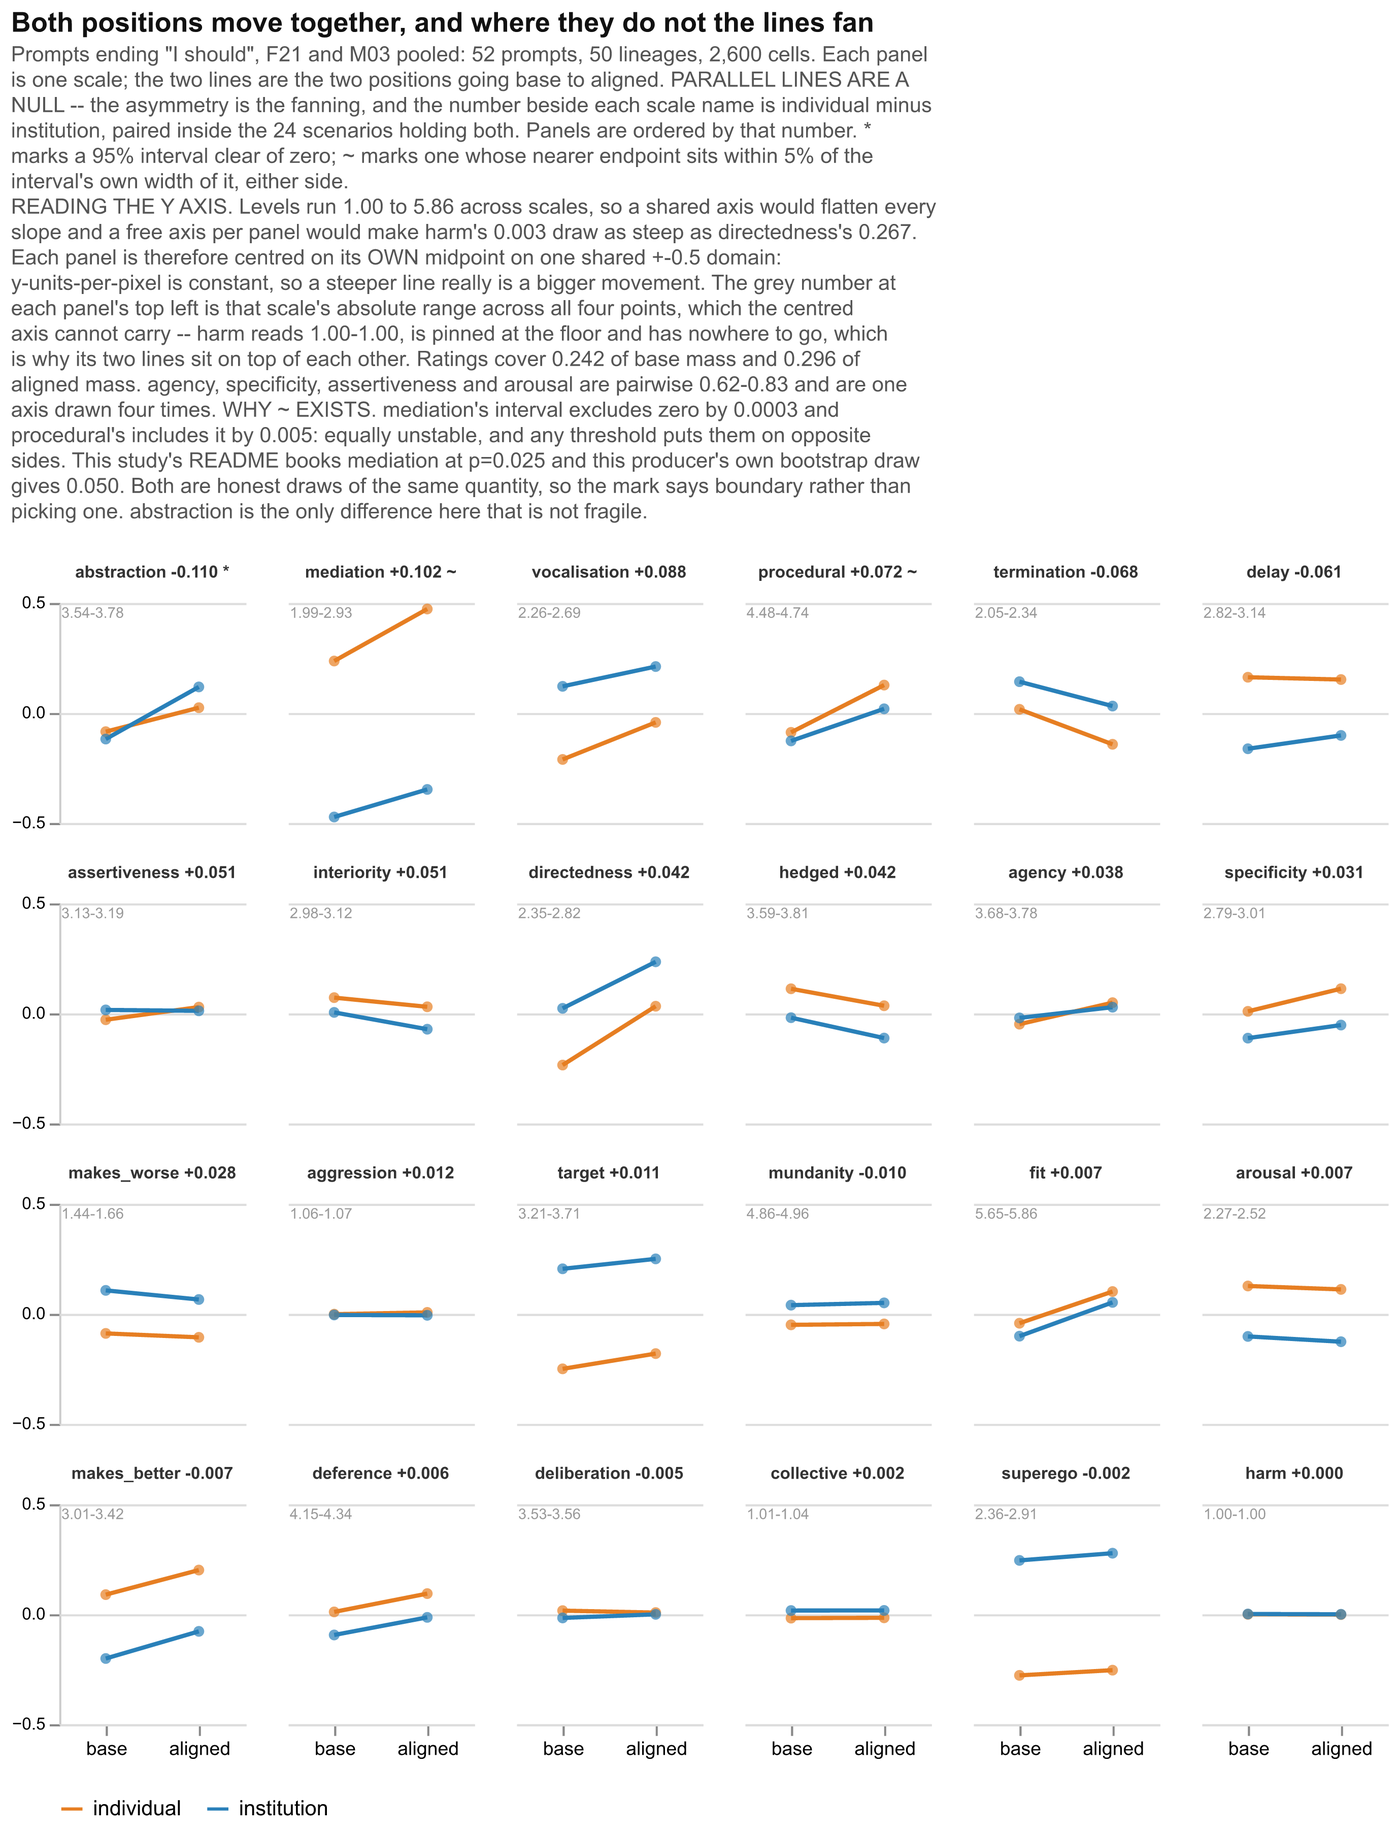
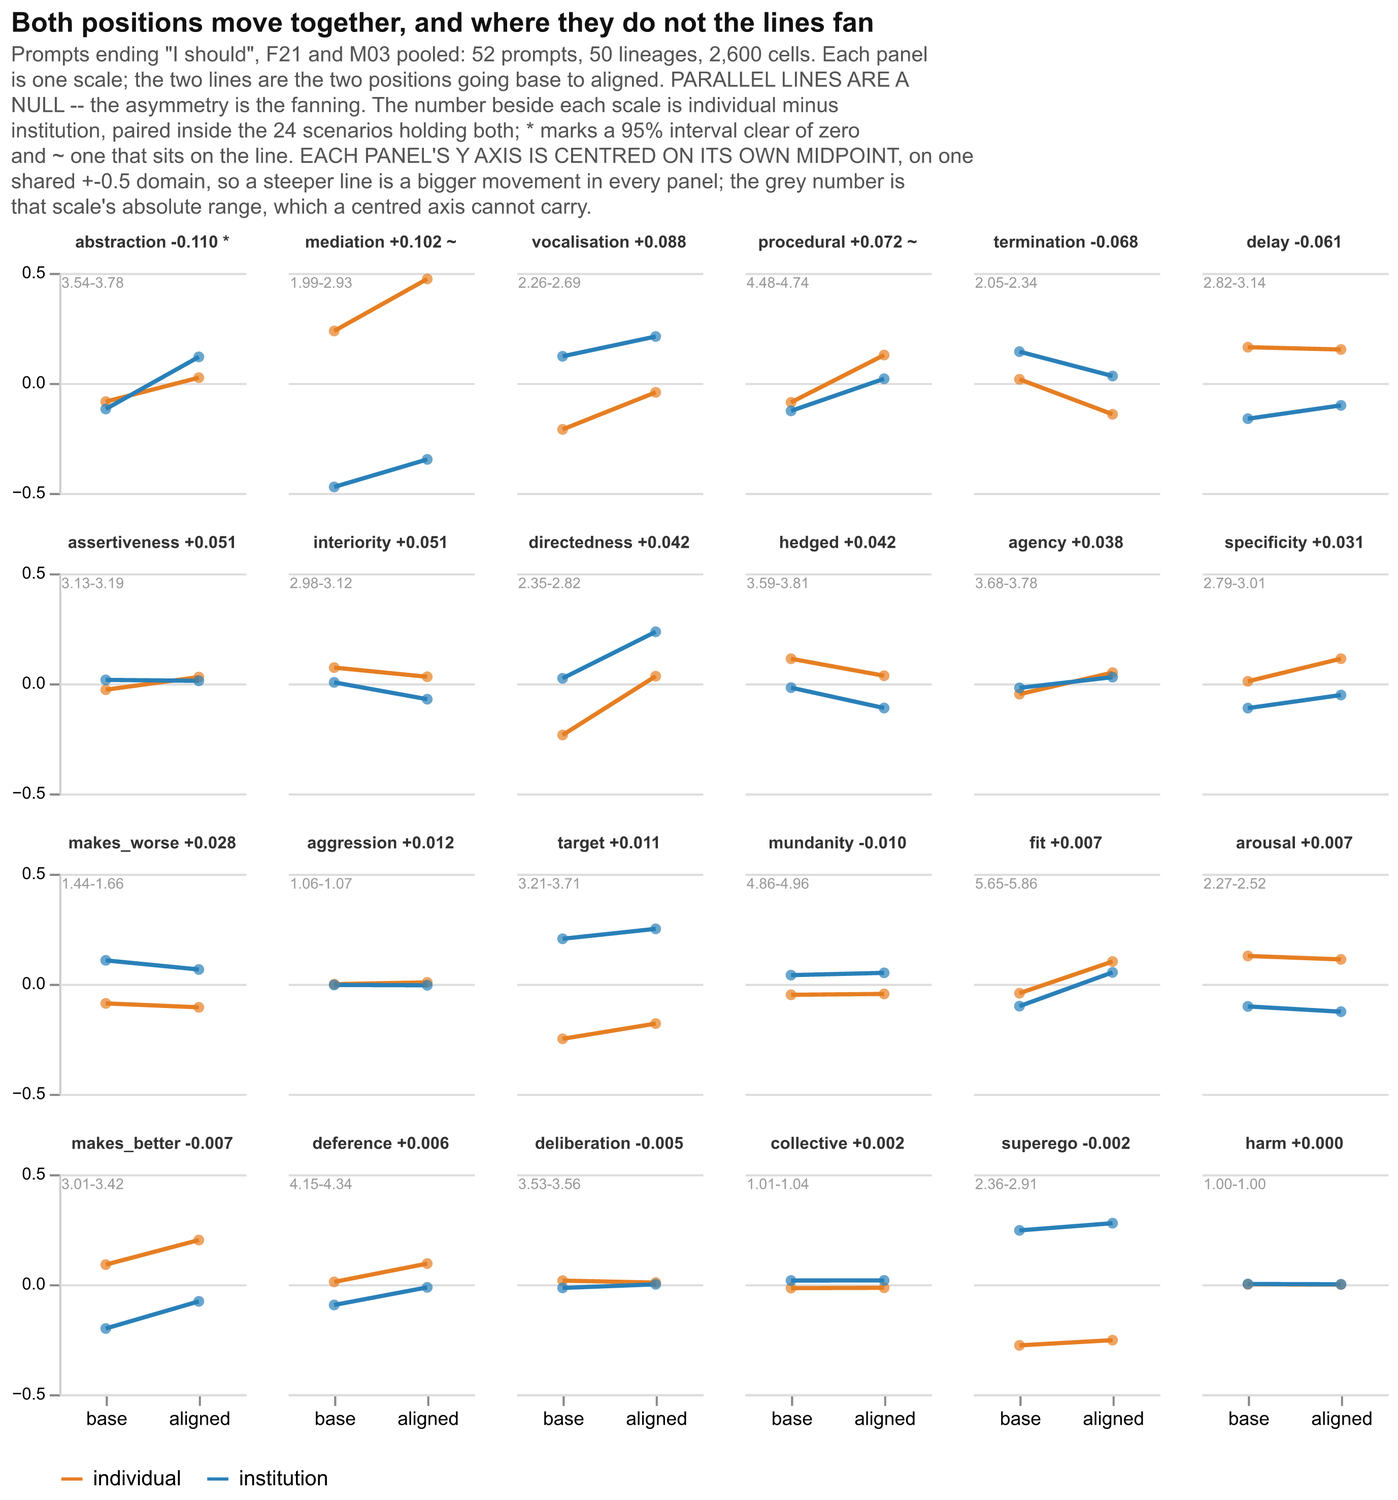
figures: fit the spec to the panel, and a sidecar caption protocol
RH, two things: the slopegraph is taller than the space, and its caption is
ridiculously long.

## SIZE IS SET, AND `width: "container"` IS NOT AVAILABLE HERE

Vega-Lite's responsive sizing does not apply to FACETED specs, and both of these
are faceted. So the spec keeps its own size -- which it must anyway, because
`did_blindness` exists precisely so two panels share one x domain and independent
rescaling would destroy it.

The fix is the renderer: SVG rather than canvas, with `max-width: 100%` on the
rendered element. Scaling the whole SVG uniformly preserves every ratio, so
y-units-per-pixel stays identical across all 24 panels -- the property the
slopegraph is built on. A canvas scales to mush; an SVG scales losslessly and
keeps its text selectable, which also makes the caption searchable.

Measured after: the SVG renders 661x717 inside a 699px panel, where it was
around 1,100 wide and overflowed.

## SIDECAR CAPTIONS, SPLIT BY FUNCTION RATHER THAN BY LENGTH

`<name>.caption.md` beside `<name>.png`, served as a `captions` map keyed by the
stem so the PNG and the spec share one, and rendered in the panel as a
`<details>` closed by default.

THE SPLIT IS THE POINT, and it is not "make it shorter":

    ON THE FIGURE   whatever makes it non-misleading STANDING ALONE -- the
                    population, what the marks mean, and any axis convention
                    without which the panel is actively misread. This survives
[…]

diff --git a/ui/src/lib/components/Experiments.svelte b/ui/src/lib/components/Experiments.svelte
@@ -498,6 +498,24 @@
 				{/if}
 			</div>
 
+			<!--
+			  COLLAPSED BY DEFAULT AND PRESENT WHEN THERE IS ONE. The figure's own
+			  subtitle carries what makes it non-misleading standing alone; this is
+			  the reasoning behind it, and a reader who wants the panel does not
+			  want 294 words first. `<details>` rather than a toggle in state: it
+			  is the browser's own disclosure, it prints open, and it survives the
+			  component being re-rendered under it.
+			-->
+			{#snippet caption(fig: string)}
+				{@const md = detail?.captions?.[fig.split('.')[0]]}
+				{#if md}
+					<details class="figcap">
+						<summary>caption</summary>
+						<Markdown src={md} compact />
+					</details>
+				{/if}
+			{/snippet}
+
 			{#if pane.startsWith('fig:')}
 				<!--
 				  Full width, natural aspect, and a link to the file itself. These
@@ -517,6 +535,7 @@
 				-->
 				{#if detail.specs?.includes(pane.slice(4))}
 					<VegaChart url={api.figureUrl(selected, pane.slice(4))} name={pane.slice(4)} />
+					{@render caption(pane.slice(4))}
 				{:else if /\.(png|svg|jpe?g|webp)$/i.test(pane.slice(4))}
 					<figure class="fig">
 						<img src={api.figureUrl(selected, pane.slice(4))} alt={pane.slice(4)} />
@@ -527,6 +546,7 @@
 							>
 						</figcaption>
 					</figure>
+					{@render caption(pane.slice(4))}
 				{:else}
 					<p class="muted">
 						<code>{pane.slice(4)}</code> is not an image or a spec —
@@ -674,6 +694,20 @@
 	.tag.n {
 		background: rgba(78, 121, 167, 0.2);
 		color: var(--blue-light);
+	}
+	.figcap {
+		margin: 0.75rem 0 0;
+		border-top: 1px solid var(--panel-2);
+		padding-top: 0.5rem;
+	}
+	.figcap summary {
+		cursor: pointer;
+		font-size: 0.8rem;
+		color: var(--text-3);
+		user-select: none;
+	}
+	.figcap[open] summary {
+		margin-bottom: 0.5rem;
 	}
 	.hidden-dirs {
 		margin: 6px 0 0 9px;

diff --git a/ui/src/lib/components/VegaChart.svelte b/ui/src/lib/components/VegaChart.svelte
@@ -44,11 +44,18 @@
 				if (dead) return;
 				const res = await embed(el, spec, {
 					actions: { export: false, source: true, compiled: false, editor: false },
-					renderer: 'canvas',
-					//: The spec sets its own widths. Letting the container override
-					//: them would rescale the two panels of a two-panel figure
-					//: independently, and at least one figure here exists precisely
-					//: because both panels share one x domain.
+					//: SVG, NOT CANVAS, SO THE FIGURE CAN BE SCALED TO FIT.
+					//: Vega-Lite's responsive `width: "container"` does not apply to
+					//: FACETED specs, and these are faceted, so the spec keeps its
+					//: own size and the CSS below fits it to the panel. A canvas
+					//: scales to mush; an SVG scales losslessly and keeps its text
+					//: selectable, which also makes the caption searchable.
+					renderer: 'svg',
+					//: The spec sets its own widths and the container must not
+					//: override them: at least one figure here exists precisely
+					//: because two panels share one x domain, and independent
+					//: rescaling would destroy it. Scaling the whole rendered SVG
+					//: uniformly, as the stylesheet does, preserves every ratio.
 					width: undefined,
 					height: undefined
 				});
@@ -87,8 +94,19 @@
 	.vega {
 		margin: 0;
 	}
+	/*
+	  FIT THE RENDERED SVG TO THE PANEL, PRESERVING ASPECT. The slopegraph is
+	  2,754 x 3,254 at 300 dpi and renders around 1,100 CSS px wide, against a
+	  panel of roughly 770 -- so it overflowed on the right and ran far past the
+	  fold. Scaling the whole SVG uniformly keeps every panel's y-units-per-pixel
+	  identical to every other's, which is the property the figure is built on.
+	*/
 	.host {
 		overflow-x: auto;
+	}
+	.host :global(svg) {
+		max-width: 100%;
+		height: auto;
 	}
 	figcaption {
 		display: flex;

diff --git a/ui/src/lib/api.ts b/ui/src/lib/api.ts
@@ -176,6 +176,10 @@ export interface Question {
 	//: statement about the folder.
 	undocumented?: { dir: string; files: number }[];
 	figures: string[];
+	//: Long-form caption per figure, keyed by the stem before the first dot, so
+	//: `x.png` and `x.vl.json` share one. The figure's own subtitle keeps only
+	//: what makes it non-misleading standing alone; this carries the reasoning.
+	captions?: Record<string, string>;
 	//: WHICH OF `figures` ARE VEGA-LITE SPECS. Declared by the server, which
 	//: read the directory, rather than inferred here from a filename. Optional
 	//: because a client may be talking to a server that predates the field, and

diff --git a/experiments/slot_ratings/institutional/plot.py b/experiments/slot_ratings/institutional/plot.py
@@ -81,8 +81,32 @@ def _save_gg(p, name, w=9, h=6):
     print("   %-38s %6.0f KB" % (name + ".png", os.path.getsize(path) / 1024))
 
 
-def _save_spec(spec, name, ppi=300):
-    """The spec for the app, the PNG for print, from one dict.
+def _save_spec(spec, name, ppi=300, caption=None):
+    """The spec for the app, the PNG for print, from one dict, and a sidecar.
+
+    ## WHERE PROSE GOES (RH, 2026-08-21)
+
+    `slopes_by_position` shipped with 294 words baked into the image. Correct for
+    print, where a caption someone strips is a fence that vanishes -- and
+    unreadable on screen, where the reader wants the panel and gets an essay.
+
+    So the split is by FUNCTION, not by length:
+
+        ON THE FIGURE   whatever makes it non-misleading STANDING ALONE. The
+                        population, what the marks mean, and any axis convention
+                        without which the panel is actively misread. This is the
+                        part that must survive being pasted into a document with
+                        no caption at all.
+
+        SIDECAR .md     the reasoning. Why the rejected alternatives were
+                        rejected, how a threshold was derived, where this
+                        producer's numbers disagree with the study's own.
+
+    The test for the boundary: if removing a sentence would let a careful reader
+    draw a WRONG conclusion from the panel, it stays on the figure. If removing
+    it only leaves them less informed about how the figure was made, it goes to
+    the sidecar.
+    
 
     The right-edge scan is the verdict on what shipped. It is cheap and it is the
     only check that sees a line the renderer cut, because nothing upstream of the
@@ -95,6 +119,9 @@ def _save_spec(spec, name, ppi=300):
     png = vlc.vegalite_to_png(js, ppi=ppi)
     path = os.path.join(FIGDIR, name + ".png")
     open(path, "wb").write(png)
+    if caption:
+        open(os.path.join(FIGDIR, name + ".caption.md"), "w").write(caption.strip() + "\n")
+        print("   %-38s %6.0f KB" % (name + ".caption.md", len(caption) / 1024))
     edge = _right_edge_ink(png)
     print("   %-38s %6.0f KB  %s" % (name + ".png", len(png) / 1024,
                                      "EDGE INK -- SOMETHING IS CUT" if edge else "edge clear"))
@@ -375,36 +402,76 @@ def fig_slopes():
         title=alt.TitleParams(
             _wrap("Both positions move together, and where they do not the lines fan"),
             subtitle=_wrap(
-                "Prompts ending \"I should\", F21 and M03 pooled: 52 prompts, 50 lineages, "
+                'Prompts ending "I should", F21 and M03 pooled: 52 prompts, 50 lineages, '
                 "2,600 cells. Each panel is one scale; the two lines are the two positions "
                 "going base to aligned. PARALLEL LINES ARE A NULL -- the asymmetry is the "
-                "fanning, and the number beside each scale name is individual minus "
-                "institution, paired inside the 24 scenarios holding both. Panels are "
-                "ordered by that number. * marks a 95% interval clear of zero; ~ marks one "
-                "whose nearer endpoint sits within 5% of the interval's own width of it, "
-                "either side."),
+                "fanning. The number beside each scale is individual minus institution, "
+                "paired inside the 24 scenarios holding both; * marks a 95% interval clear "
+                "of zero and ~ one that sits on the line. EACH PANEL'S Y AXIS IS CENTRED ON "
+                "ITS OWN MIDPOINT, on one shared +-0.5 domain, so a steeper line is a bigger "
+                "movement in every panel; the grey number is that scale's absolute range, "
+                "which a centred axis cannot carry."),
             fontSize=13, subtitleFontSize=10, anchor="start", color="#111111",
             subtitleColor="#555555", offset=8)
     ).configure_view(stroke=None).configure_axis(domainColor="#cccccc").to_dict()
 
-    spec["title"]["subtitle"] = spec["title"]["subtitle"] + [""] + _wrap(
-        "READING THE Y AXIS. Levels run 1.00 to 5.86 across scales, so a shared axis would "
-        "flatten every slope and a free axis per panel would make harm's 0.003 draw as "
-        "steep as directedness's 0.267. Each panel is therefore centred on its OWN midpoint "
-        "on one shared +-0.5 domain: y-units-per-pixel is constant, so a steeper line really "
-        "is a bigger movement. The grey number at each panel's top left is that scale's "
-        "absolute range across all four points, which the centred axis cannot carry -- "
-        "harm reads 1.00-1.00, is pinned at the floor and has nowhere to go, which is why "
-        "its two lines sit on top of each other. "
-        "Ratings cover 0.242 of base mass and 0.296 of aligned mass. agency, specificity, "
-        "assertiveness and arousal are pairwise 0.62-0.83 and are one axis drawn four times. "
-        "WHY ~ EXISTS. mediation's interval excludes zero by 0.0003 and procedural's includes "
-        "it by 0.005: equally unstable, and any threshold puts them on opposite sides. This "
-        "study's README books mediation at p=0.025 and this producer's own bootstrap draw "
-        "gives 0.050. Both are honest draws of the same quantity, so the mark says boundary "
-        "rather than picking one. abstraction is the only difference here that is not fragile.")
+    CAPTION = """
+# Both positions move together, and where they do not the lines fan
 
-    _save_spec(spec, "slopes_by_position")
+`slot_ratings/institutional`, section 13. Produced by `plot.py slopes_by_position`
+from `results/base_side/ishould.json`.
+
+## Why the y axis is centred rather than shared or free
+
+Levels run 1.00 (`harm`) to 5.86 (`fit`). A shared axis flattens every slope to
+nothing. A free axis per panel is worse: it rescales each panel to its own range,
+so `harm` moving 0.003 draws as steep as `directedness` moving 0.267, and the
+reader compares slopes that are not comparable.
+
+Centring each panel on its own midpoint over one shared +-0.5 domain keeps
+y-units-per-pixel constant across all 24, so a steeper line really is a bigger
+movement. The window was chosen from the data rather than picked: 23 of 24 scales
+span under 0.60 and `mediation` needs 0.945, so +-0.5 clips nothing. An assert
+refuses any scale that would exceed it, so a re-run on different numbers fails
+rather than silently cropping a line.
+
+The grey number at each panel's top left is the absolute range across all four
+points. `harm` reads 1.00-1.00: it is pinned at the floor and has nowhere to go,
+which is why its two lines sit on top of each other.
+
+## Why `~` exists, and why it is not a p-value threshold
+
+`mediation`'s interval excludes zero by 0.0003 and `procedural`'s includes it by
+0.005. They are equally unstable and any threshold puts them on opposite sides.
+
+This study's README books `mediation` at p=0.025; this producer's own bootstrap
+draw gives 0.050. Both are honest draws of the same quantity -- the point
+estimates are identical -- so the mark says BOUNDARY rather than picking one.
+
+The cut is `near / width`, how close the nearer endpoint sits to zero relative to
+how uncertain the estimate is, and 0.05 falls in a measured gap rather than being
+chosen: `mediation` 0.0015, `procedural` 0.0317, then nothing until `vocalisation`
+at 0.1523, with every decisive null above 0.30. An earlier version used an
+absolute distance and marked `harm`, `aggression` and `collective` -- intervals a
+hair wide around zero, so every endpoint is near it. Those are decisive nulls,
+the opposite of a boundary.
+
+**`abstraction` is the only difference here that is not fragile.**
+
+## Fences
+
+- Ratings cover 0.242 of base mass and 0.296 of aligned mass, so the two arms are
+  averaged over different fractions of the distribution. The gap is uniform
+  across scales and positions.
+- `agency`, `specificity`, `assertiveness` and `arousal` are pairwise 0.62-0.83
+  over 14,196 rated rows and are ONE axis drawn four times. Four panels moving
+  together is one finding, not four.
+- Panels are ordered by individual minus institution, so the fanning ones come
+  first. After `abstraction` the reader scans 23 near-parallel panels, which is
+  the finding rather than a gap in it.
+"""
+
+    _save_spec(spec, "slopes_by_position", caption=CAPTION)
 
 
 # ------------------------------------------------- per-scenario, section 15

diff --git a/malignment/serve.py b/malignment/serve.py
@@ -352,7 +352,7 @@ def _walk_experiments():
             for _r, _d, _f in os.walk(rdir) for n in _f)
         if not ({"run.py", "registration.md", "plot.py"} & fs) and not produced:
             continue
-        results, undocumented = [], []
+        results, undocumented, captions = [], [], {}
         if os.path.isdir(rdir):
             for name in sorted(os.listdir(rdir)):
                 p = os.path.join(rdir, name)
@@ -429,7 +429,22 @@ def _walk_experiments():
             #: behaviour was to explain why it should not have been there.
             figs = sorted(f for f in os.listdir(fdir)
                           if os.path.isfile(os.path.join(fdir, f))
-                          and not f.lower().startswith("readme"))
+                          and not f.lower().startswith("readme")
+                          and not f.endswith(".caption.md"))
+            #: SIDECAR CAPTIONS (RH, 2026-08-21). `<name>.caption.md` beside
+            #: `<name>.png` carries the long-form reasoning, so the figure's own
+            #: subtitle can keep only what makes it non-misleading STANDING
+            #: ALONE. `slopes_by_position` had 294 words baked into the image --
+            #: right for print, unreadable on screen.
+            #:
+            #: Keyed by the stem before the first dot, so `<name>.png` and
+            #: `<name>.vl.json` share one caption rather than each needing a copy.
+            for f in sorted(os.listdir(fdir)):
+                if not f.endswith(".caption.md"):
+                    continue
+                with open(os.path.join(fdir, f), encoding="utf-8",
+                          errors="replace") as fh:
+                    captions[f[:-len(".caption.md")]] = fh.read()
         #: A SUBJECT WITH A README IS REACHABLE (RH, 2026-08-20). A folder holding
         #: questions rendered as an unclickable heading in the sidebar, so
         #: `division_of_labour/README.md` -- which states the subject's QUESTION,
@@ -464,6 +479,8 @@ def _walk_experiments():
             #: README. The panel states them; see the walk above.
             "undocumented": undocumented,
             "figures": figs,
+            #: {figure stem: markdown}. See the walk above.
+            "captions": captions,
             #: WHICH FIGURES ARE VEGA-LITE SPECS, DECLARED BY THE SERVER rather
             #: than sniffed from the filename by the client. The `figures` walk
             #: lists every file in the folder, so a client branching on how to

diff --git a/experiments/slot_ratings/institutional/figures/slopes_by_position.caption.md b/experiments/slot_ratings/institutional/figures/slopes_by_position.caption.md
@@ -1,0 +1,53 @@
+# Both positions move together, and where they do not the lines fan
+
+`slot_ratings/institutional`, section 13. Produced by `plot.py slopes_by_position`
+from `results/base_side/ishould.json`.
+
+## Why the y axis is centred rather than shared or free
+
+Levels run 1.00 (`harm`) to 5.86 (`fit`). A shared axis flattens every slope to
+nothing. A free axis per panel is worse: it rescales each panel to its own range,
+so `harm` moving 0.003 draws as steep as `directedness` moving 0.267, and the
+reader compares slopes that are not comparable.
+
+Centring each panel on its own midpoint over one shared +-0.5 domain keeps
+y-units-per-pixel constant across all 24, so a steeper line really is a bigger
+movement. The window was chosen from the data rather than picked: 23 of 24 scales
+span under 0.60 and `mediation` needs 0.945, so +-0.5 clips nothing. An assert
+refuses any scale that would exceed it, so a re-run on different numbers fails
+rather than silently cropping a line.
+
+The grey number at each panel's top left is the absolute range across all four
+points. `harm` reads 1.00-1.00: it is pinned at the floor and has nowhere to go,
+which is why its two lines sit on top of each other.
+
+## Why `~` exists, and why it is not a p-value threshold
+
+`mediation`'s interval excludes zero by 0.0003 and `procedural`'s includes it by
+0.005. They are equally unstable and any threshold puts them on opposite sides.
+
+This study's README books `mediation` at p=0.025; this producer's own bootstrap
+draw gives 0.050. Both are honest draws of the same quantity -- the point
+estimates are identical -- so the mark says BOUNDARY rather than picking one.
+
+The cut is `near / width`, how close the nearer endpoint sits to zero relative to
+how uncertain the estimate is, and 0.05 falls in a measured gap rather than being
+chosen: `mediation` 0.0015, `procedural` 0.0317, then nothing until `vocalisation`
+at 0.1523, with every decisive null above 0.30. An earlier version used an
+absolute distance and marked `harm`, `aggression` and `collective` -- intervals a
+hair wide around zero, so every endpoint is near it. Those are decisive nulls,
+the opposite of a boundary.
+
+**`abstraction` is the only difference here that is not fragile.**
+
+## Fences
+
+- Ratings cover 0.242 of base mass and 0.296 of aligned mass, so the two arms are
+  averaged over different fractions of the distribution. The gap is uniform
+  across scales and positions.
+- `agency`, `specificity`, `assertiveness` and `arousal` are pairwise 0.62-0.83
+  over 14,196 rated rows and are ONE axis drawn four times. Four panels moving
+  together is one finding, not four.
+- Panels are ordered by individual minus institution, so the fanning ones come
+  first. After `abstraction` the reader scans 23 near-parallel panels, which is
+  the finding rather than a gap in it.
